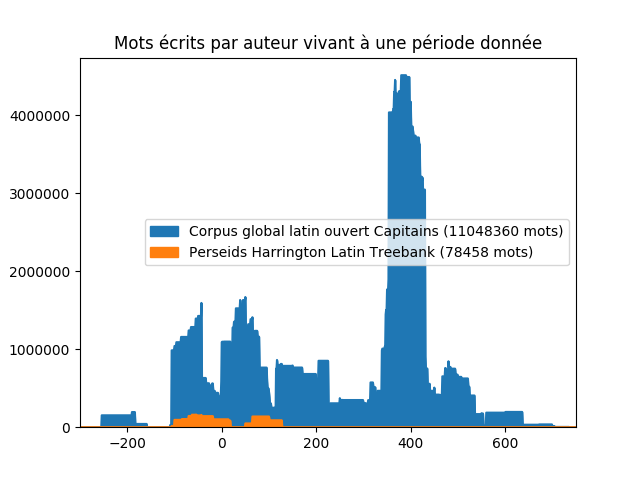
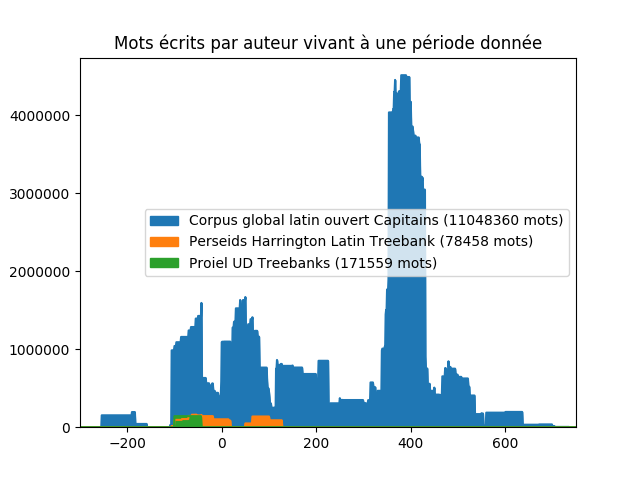
Adding Conllu base

Changed region(s): [[0.2188, 0.4062, 0.9062, 0.5938], [0.25, 0.8438, 0.3438, 0.9062]]

diff --git a/helpers/treebanks/conllu.py b/helpers/treebanks/conllu.py
@@ -1,0 +1,78 @@
+import lxml.etree
+import collections
+import os
+
+from conllu import parse
+from MyCapytain.common.reference import URN
+
+from .base import TreebankCorpus
+from ..printing import SUBSUBTASK_SEPARATOR, SUBTASK_SEPARATOR
+
+docs = []
+
+
+Conversion_table = {
+    "Commentarii belli Gallici, Caes., Gall. ": "urn:cts:latinLit:phi0448.phi001.perseus-lat2:",
+    "Epistulae ad Atticum, Book 1, letter ": "urn:cts:latinLit:phi0474.phi057.perseus-lat2:1.",
+    "Epistulae ad Atticum, Book 2, letter ": "urn:cts:latinLit:phi0474.phi057.perseus-lat2:2.",
+    "Epistulae ad Atticum, Book 3, letter ": "urn:cts:latinLit:phi0474.phi057.perseus-lat2:3.",
+    "Epistulae ad Atticum, Book 4, letter ": "urn:cts:latinLit:phi0474.phi057.perseus-lat2:4.",
+    "Epistulae ad Atticum, Book 5, letter ": "urn:cts:latinLit:phi0474.phi057.perseus-lat2:5.",
+    "Epistulae ad Atticum, Book 6, letter ": "urn:cts:latinLit:phi0474.phi057.perseus-lat2:6.",
+    "Epistulae ad Atticum, Book 7, letter ": "urn:cts:latinLit:phi0474.phi057.perseus-lat2:7.",
+}
+
+
+def conversion(doc_id):
+    if doc_id.startswith("Jerome's Vulgate") or doc_id.startswith("MATT_"):
+        doc_id = "urn:cts:greekLit:tlg0031.tlg001.perseus-lat2"
+        return doc_id
+    for key, value in Conversion_table.items():
+        new_doc_id = doc_id.replace(key, value)
+        if new_doc_id != doc_id:
+            return new_doc_id
+
+    print("Not found in Conversion Table :" + doc_id)
+    return doc_id
+
+
+class ConlluTreebank(TreebankCorpus):
+    def parse_sentences(self):
+        """ Parse each conllu file """
+        for file in self.files:
+            with open(file) as f:
+                sentences = f.read().split("\n\n")
+                for sentence in sentences:
+                    if not sentence:
+                        continue
+
+                    metadata = {
+                        line.replace("#", "").strip().split(" = ")[0]: line.strip().split(" = ")[1]
+                        for line in sentence.split("\n")
+                        if line.startswith("#")
+                    }
+
+                    try:
+                        tokens = parse(sentence)[0]
+
+                        document_id = metadata.get("source", metadata.get("sent_id"))
+                        document_id = URN(conversion(document_id))
+                        document_id = document_id.upTo(URN.VERSION)
+
+                        yield (
+                            document_id,
+                            tokens,
+                            [tok["form"] for tok in tokens],
+                            [tok["lemma"] for tok in tokens],
+                            [tok["upostag"] for tok in tokens]
+                        )
+                    except Exception as E:
+                        print(sentence)
+                        raise E
+
+    def parse(self):
+        for doc, s, words, lemmas, postags in self.parse_sentences():
+            self._words[doc] += words
+            self._lemmas[doc] += lemmas
+            for postag in postags:
+                self._types[doc][postag[0]] += 1

diff --git a/helpers/treebanks/__init__.py b/helpers/treebanks/__init__.py
@@ -1,4 +1,6 @@
 from .xml import PerseidsXMLCorpus
+from .conllu import ConlluTreebank
+
 
 Harrington = PerseidsXMLCorpus(
     "data/raw/treebanks_xml/perseids-project_harrington_trees/harrington_trees-*/CITE_TREEBANK_XML/perseus/lattb/**/*.xml",
@@ -6,6 +8,13 @@ Harrington = PerseidsXMLCorpus(
 )
 
 
+Proiel = ConlluTreebank(
+    "data/raw/treebanks_conllu/UniversalDependencies_UD_Latin-PROIEL/UD_Latin-PROIEL-*/*.conllu",
+    name="Proiel UD Treebanks"
+)
+
+
 Corpora = [
-    Harrington
+    Harrington,
+    Proiel
 ]

diff --git a/helpers/treebanks/xml.py b/helpers/treebanks/xml.py
@@ -1,7 +1,6 @@
 import lxml.etree
 import collections
 import os
-import statistics
 from MyCapytain.common.reference import URN
 
 from .base import TreebankCorpus

diff --git a/results/analysis/corpus_analysis/treebank_Perseids Harrington Latin Treebank.md b/results/analysis/corpus_analysis/treebank_Perseids Harrington Latin Treebank.md
@@ -1,13 +1,13 @@
 | Documents                                                        | Tokens     |
 | --                                                               | --         |
-| urn:cts:latinLit:phi1221.phi007.perseus-lat2                     | 3080       |
-| urn:cts:latinLit:phi0959.phi001.perseus-lat2                     | 4208       |
-| urn:cts:latinLit:phi0660.phi003.perseus-lat2                     | 323        |
-| urn:cts:latinLit:phi0972.phi001.perseus-lat2                     | 9910       |
-| urn:cts:latinLit:phi0474.phi024.perseus-lat2                     | 1809       |
-| urn:cts:latinLit:phi0959.phi006.perseus-lat2                     | 14240      |
-| urn:cts:latinLit:phi0472.phi001.perseus-lat2                     | 2266       |
 | urn:cts:latinLit:phi0448.phi001.perseus-lat2                     | 15652      |
-| urn:cts:latinLit:phi0690.phi003.perseus-lat2                     | 7996       |
-| urn:cts:latinLit:phi1276.phi001.perseus-lat2                     | 17681      |
+| urn:cts:latinLit:phi0972.phi001.perseus-lat2                     | 9910       |
+| urn:cts:latinLit:phi0660.phi003.perseus-lat2                     | 323        |
+| urn:cts:latinLit:phi0959.phi001.perseus-lat2                     | 4208       |
 | urn:cts:latinLit:phi0474.phi013.perseus-lat2                     | 1293       |
+| urn:cts:latinLit:phi0690.phi003.perseus-lat2                     | 7996       |
+| urn:cts:latinLit:phi0474.phi024.perseus-lat2                     | 1809       |
+| urn:cts:latinLit:phi1276.phi001.perseus-lat2                     | 17681      |
+| urn:cts:latinLit:phi0472.phi001.perseus-lat2                     | 2266       |
+| urn:cts:latinLit:phi1221.phi007.perseus-lat2                     | 3080       |
+| urn:cts:latinLit:phi0959.phi006.perseus-lat2                     | 14240      |

diff --git a/results/analysis/corpus_analysis/treebank_Proiel UD Treebanks.md b/results/analysis/corpus_analysis/treebank_Proiel UD Treebanks.md
@@ -1,0 +1,5 @@
+| Documents                                                        | Tokens     |
+| --                                                               | --         |
+| urn:cts:latinLit:phi0448.phi001.perseus-lat2                     | 27402      |
+| urn:cts:latinLit:phi0474.phi057.perseus-lat2                     | 40454      |
+| urn:cts:greekLit:tlg0031.tlg001.perseus-lat2                     | 103703     |
